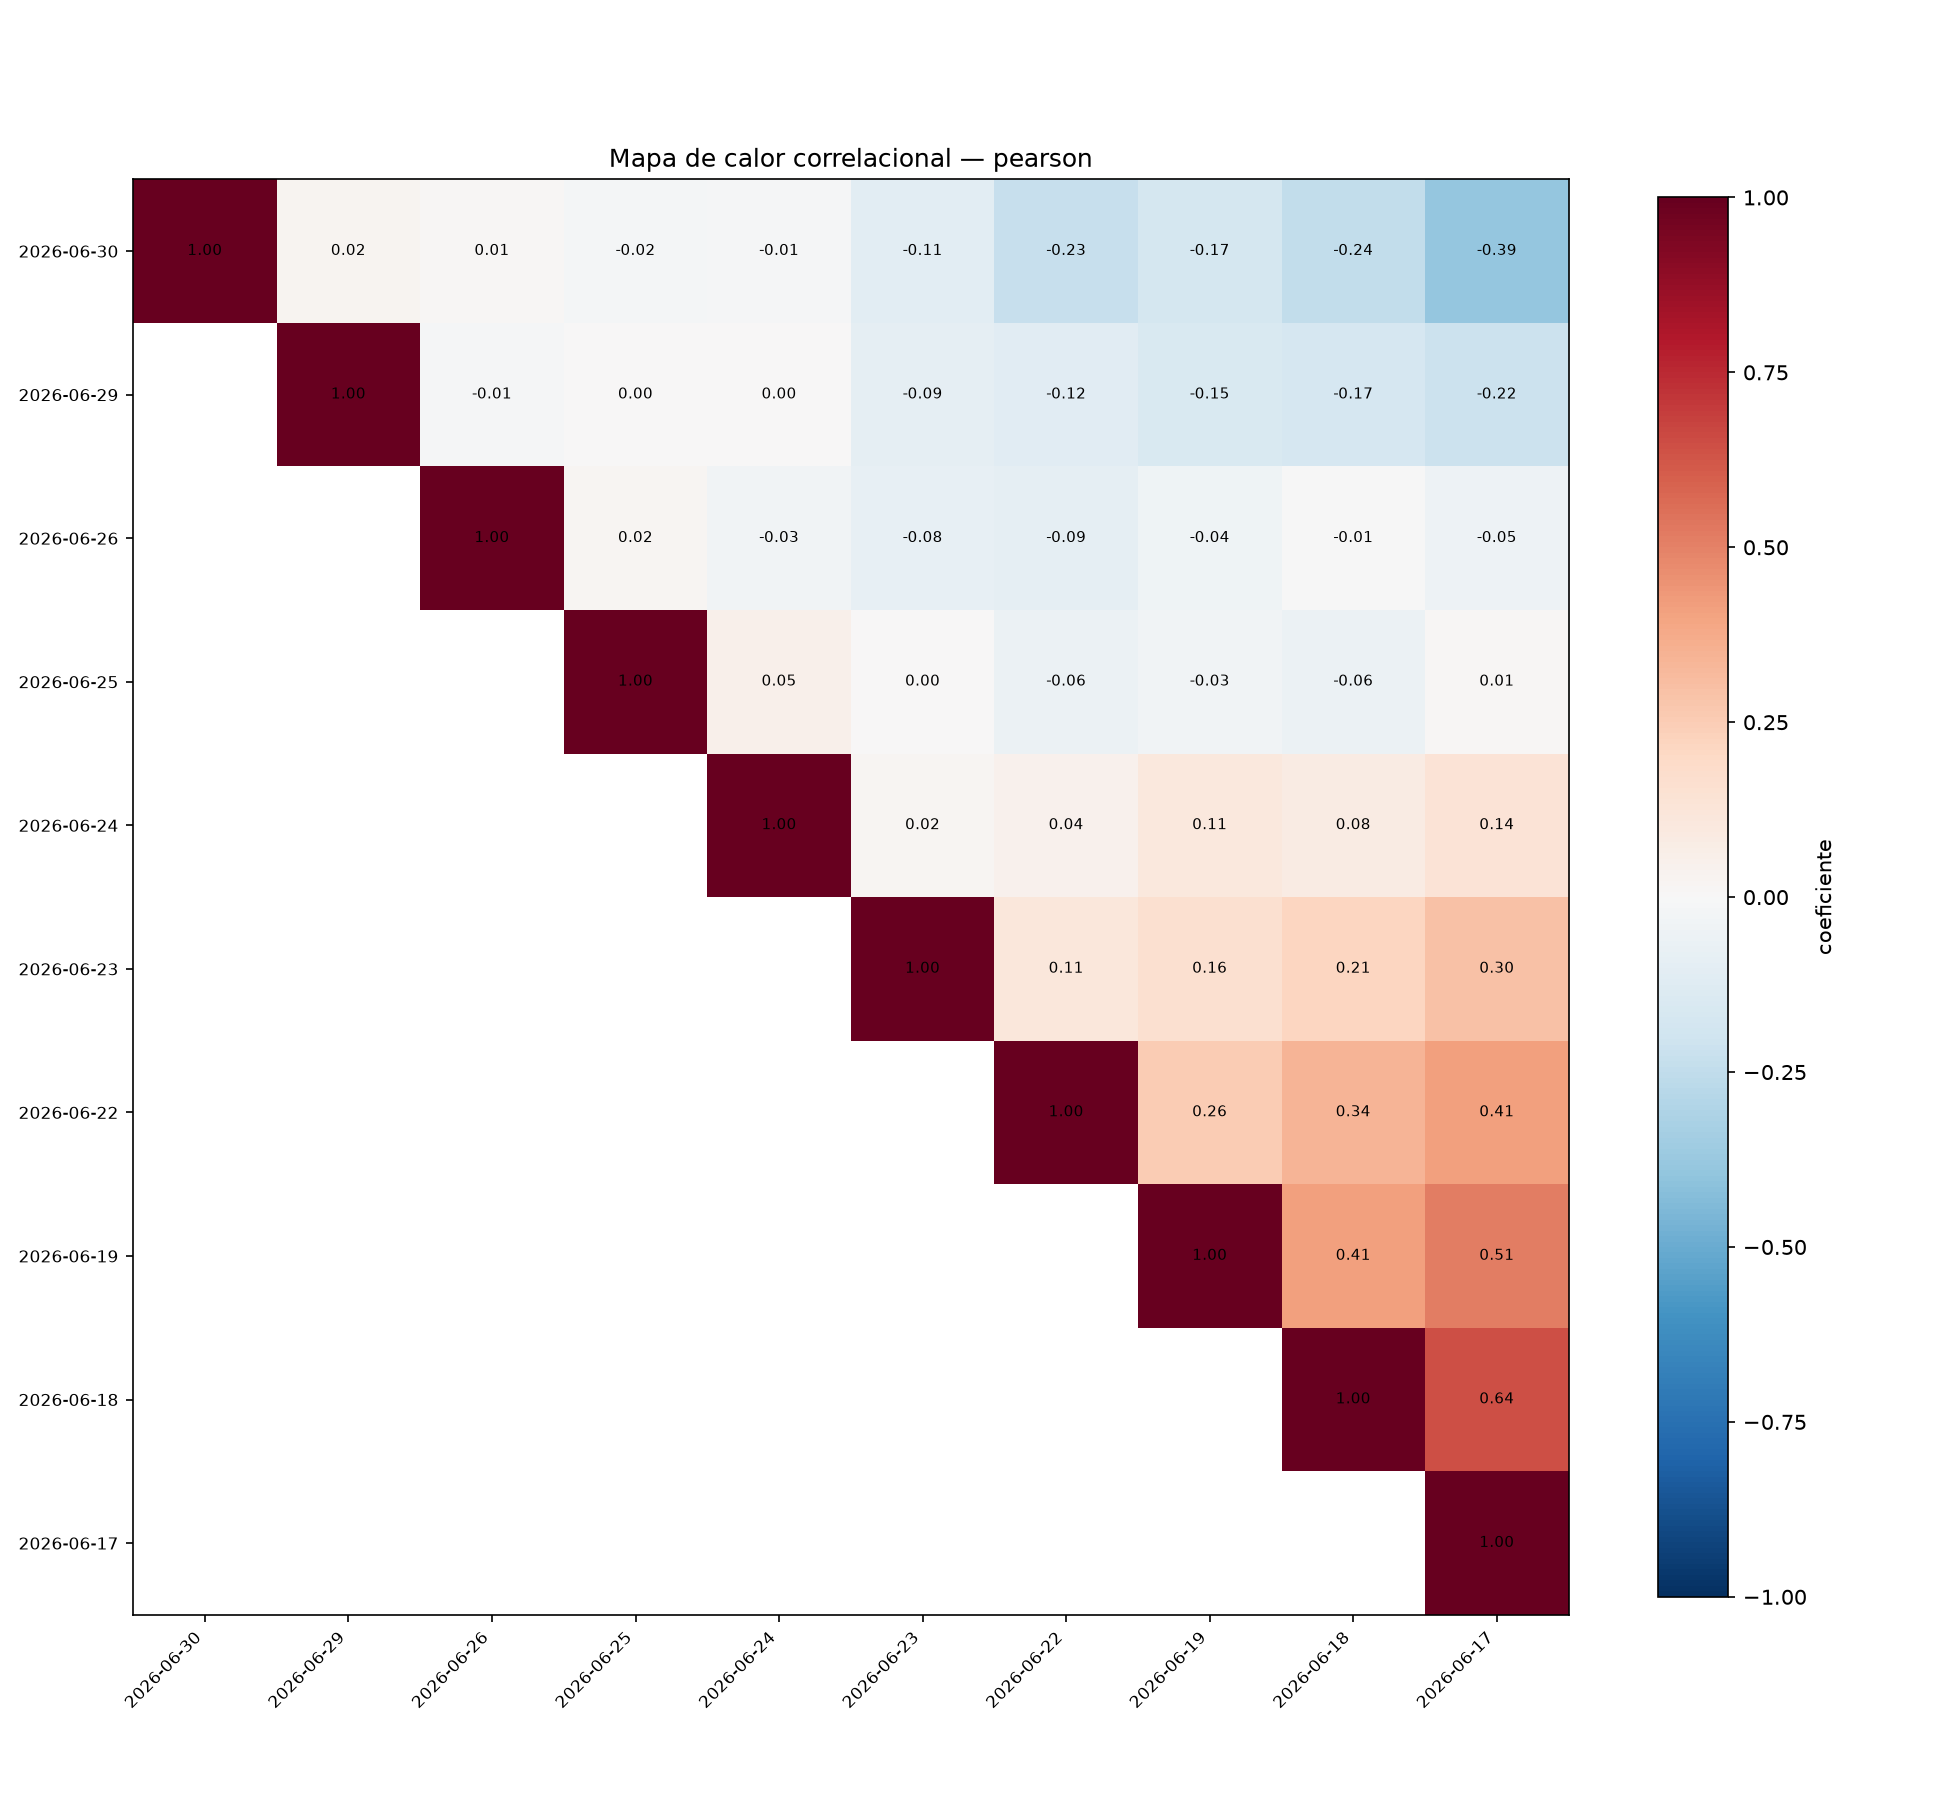
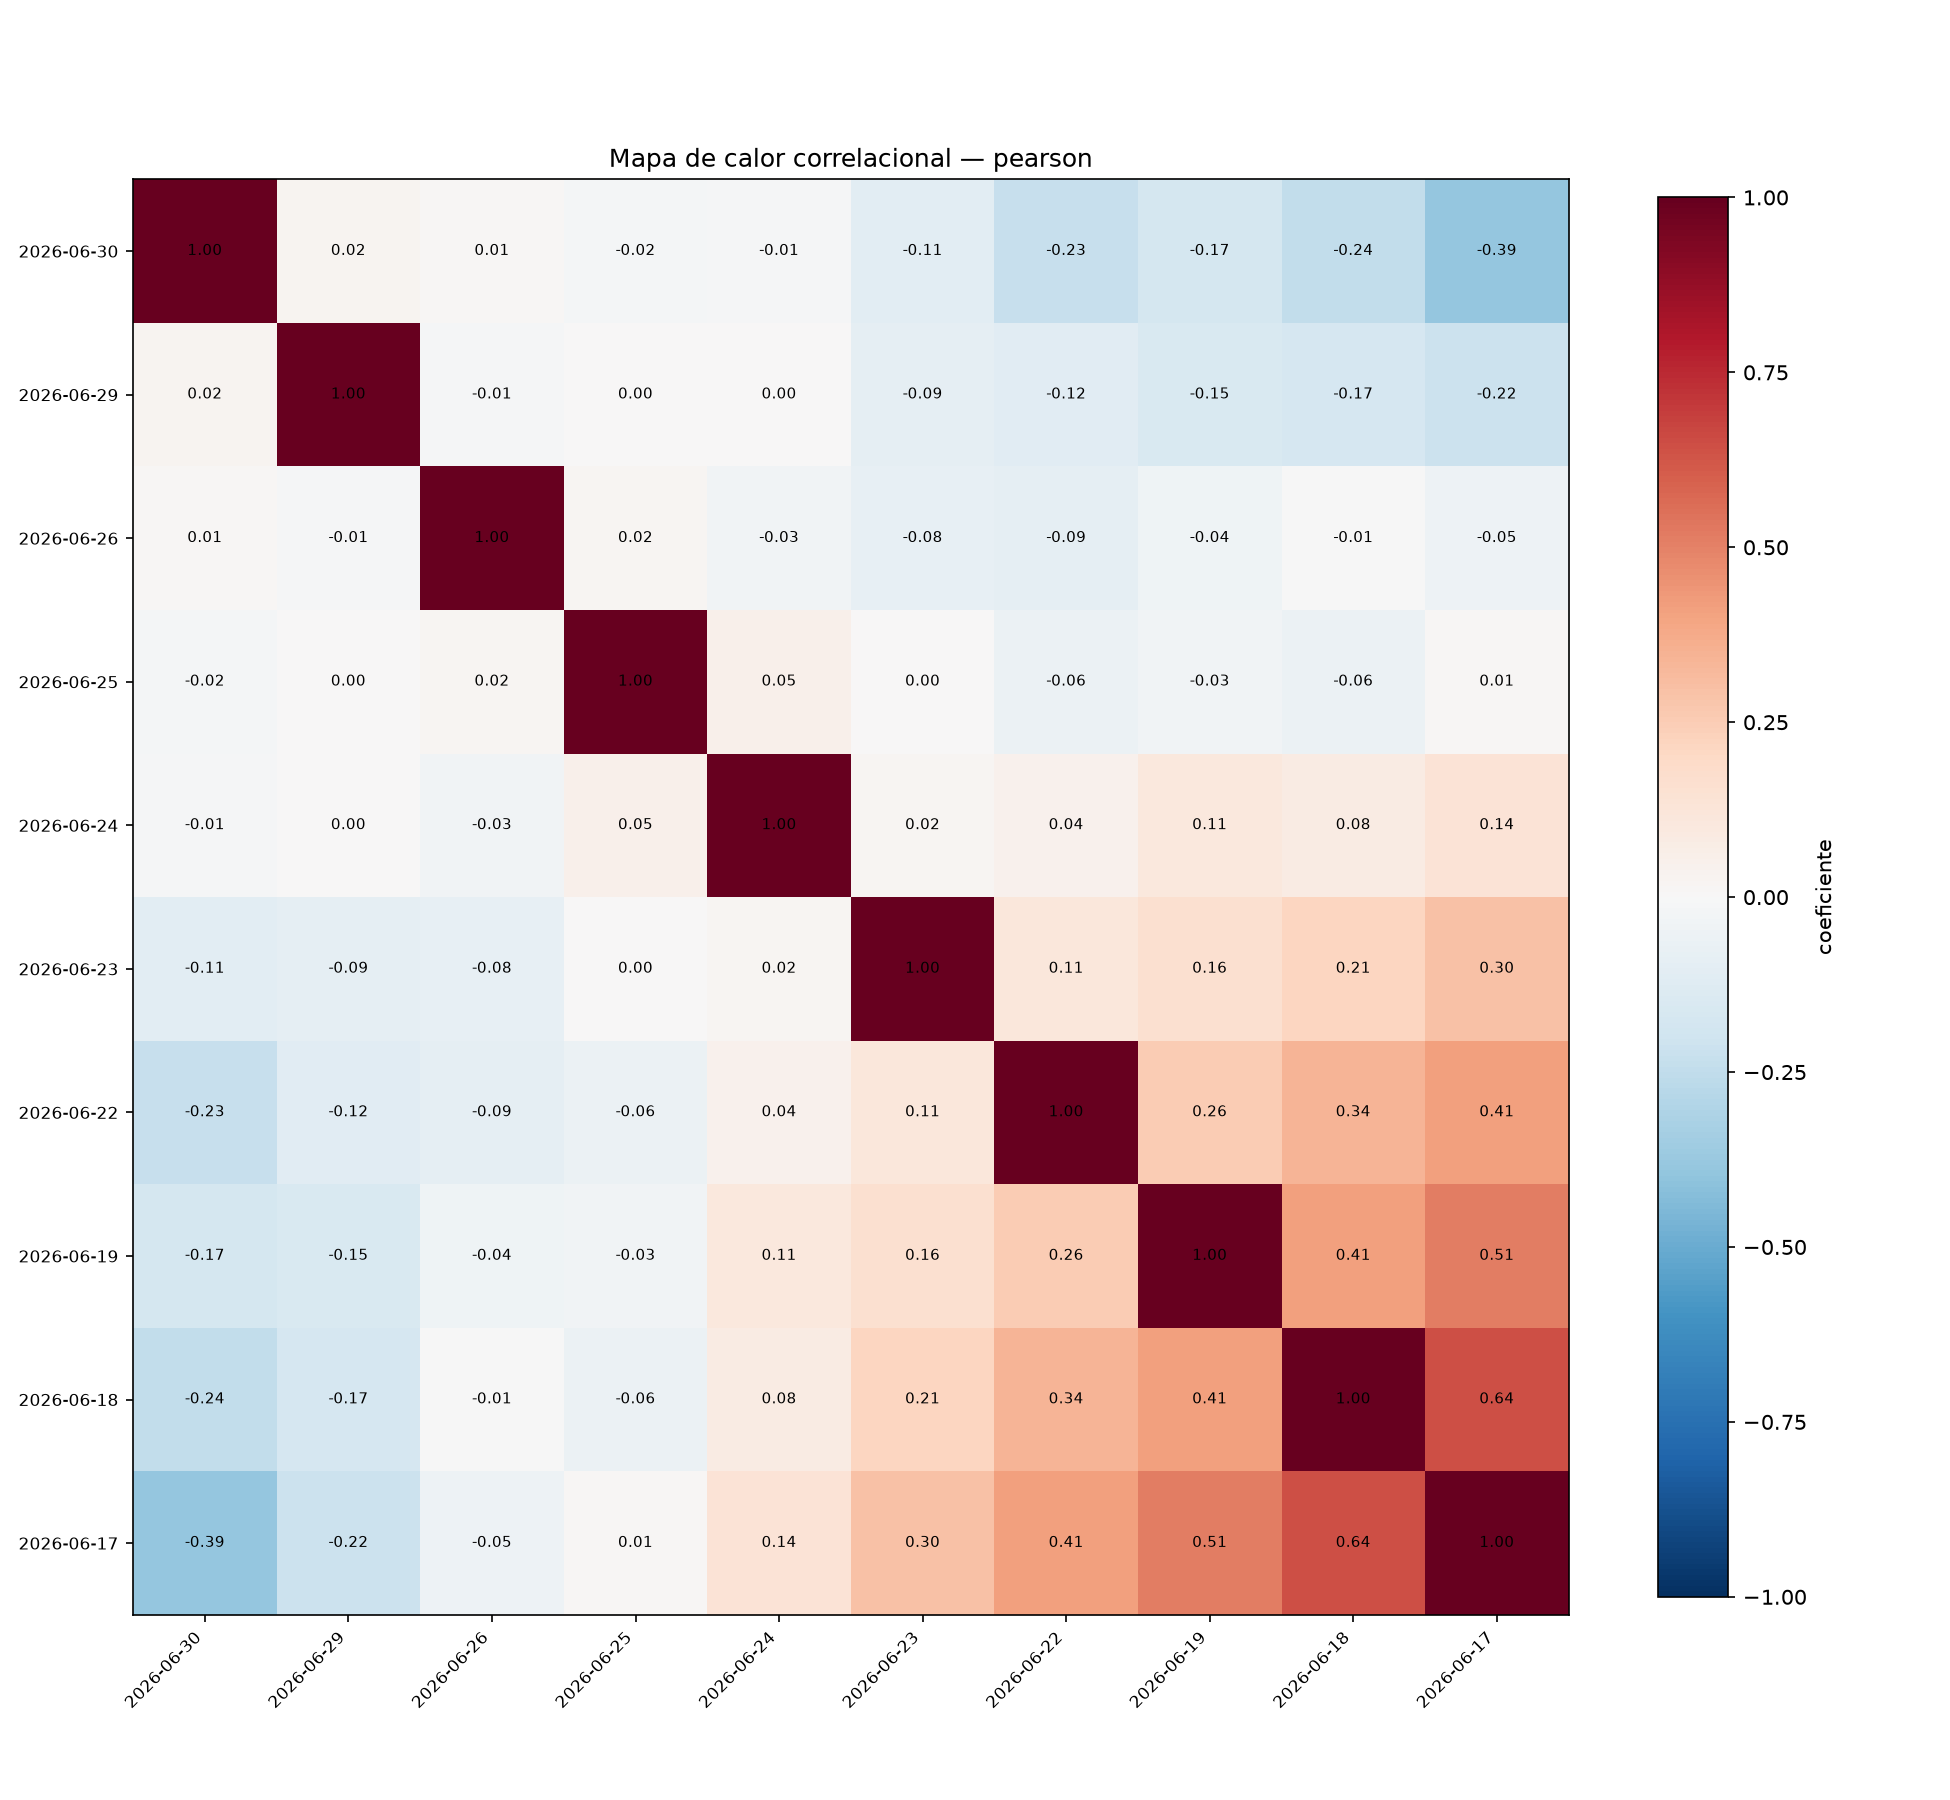
feat(viz): renderiza a matriz V completa e simétrica no heatmap
Remove a máscara do triângulo inferior — ambos os triângulos e a diagonal
são exibidos, mantendo a estrutura completa da matriz de correlação. Só o
triângulo superior é informativo (v_{i,j}=v_{j,i}), mas a simetria fica
visível. Docs e sample atualizados.

Claude-Session: https://claude.ai/code/session_01WybFwrnP7WDMffwengpz48

Changed region(s): [[0.3385, 0.56, 0.7385, 0.9022], [0.0615, 0.4978, 0.3077, 0.9022]]

diff --git a/src/visualization/heatmap.py b/src/visualization/heatmap.py
@@ -13,8 +13,6 @@ import pandas as pd
 def plot_heatmap(matrix: pd.DataFrame, method: str, path: str | Path) -> Path:
     labels = list(matrix.columns)
     data = matrix.to_numpy(dtype=float)
-    mask = np.tril(np.ones_like(data, dtype=bool), k=-1)
-    data = np.ma.masked_array(data, mask=mask)
 
     fig, ax = plt.subplots(figsize=(1.1 * len(labels) + 2, 1.1 * len(labels) + 1))
     image = ax.imshow(data, cmap="RdBu_r", vmin=-1.0, vmax=1.0)
@@ -25,10 +23,9 @@ def plot_heatmap(matrix: pd.DataFrame, method: str, path: str | Path) -> Path:
 
     for i in range(len(labels)):
         for j in range(len(labels)):
-            if not mask[i, j]:
-                ax.text(
-                    j, i, f"{data[i, j]:.2f}", ha="center", va="center", fontsize=7
-                )
+            value = data[i, j]
+            if not np.isnan(value):
+                ax.text(j, i, f"{value:.2f}", ha="center", va="center", fontsize=7)
 
     fig.colorbar(image, ax=ax, shrink=0.8, label="coeficiente")
     fig.tight_layout()

diff --git a/docs/ARCHITECTURE.pt-BR.md b/docs/ARCHITECTURE.pt-BR.md
@@ -117,4 +117,4 @@ A primeira release contempla as camadas de **Captura**, **Pré-processamento** e
 
 ## 5. Escopo da Release 2
 
-A segunda release implementa a **Camada de Análise**: dada a base de dias selados, calcula a matriz de correlação $\mathbf{V} = [v_{i,j}]$ entre as séries diárias, com $v_{i,j} = \mathrm{corr}(d_i, d_j)$ para $j < i$, e persiste os coeficientes, o p-valor par a par e uma medida de estabilidade entre sub-janelas. A série de cada dia é o **retorno log do close** numa **janela intradiária uniforme** parametrizada. Os métodos são plugáveis (`CorrelationMethod`); esta release entrega **Pearson** e **Spearman** — CCF com varredura de lags, ρDCCA e MF-DCCA entram depois pela mesma interface. A visualização gera o **mapa de calor** (triângulo superior de $\mathbf{V}$). A integração ao dashboard existente permanece fora de escopo. Ver `docs/adr/0004-camada-de-analise-correlacao-cruzada.md`.
+A segunda release implementa a **Camada de Análise**: dada a base de dias selados, calcula a matriz de correlação $\mathbf{V} = [v_{i,j}]$ entre as séries diárias, com $v_{i,j} = \mathrm{corr}(d_i, d_j)$ para $j < i$, e persiste os coeficientes, o p-valor par a par e uma medida de estabilidade entre sub-janelas. A série de cada dia é o **retorno log do close** numa **janela intradiária uniforme** parametrizada. Os métodos são plugáveis (`CorrelationMethod`); esta release entrega **Pearson** e **Spearman** — CCF com varredura de lags, ρDCCA e MF-DCCA entram depois pela mesma interface. A visualização gera o **mapa de calor** da matriz $\mathbf{V}$ completa e simétrica (embora, por $v_{i,j}=v_{j,i}$, apenas o triângulo superior seja informativo). A integração ao dashboard existente permanece fora de escopo. Ver `docs/adr/0004-camada-de-analise-correlacao-cruzada.md`.

diff --git a/docs/ARCHITECTURE.en-US.md b/docs/ARCHITECTURE.en-US.md
@@ -117,4 +117,4 @@ The first release covers the **Acquisition**, **Preprocessing**, and **Storage**
 
 ## 5. Release 2 Scope
 
-The second release implements the **Analysis** layer: given the sealed-day dataset, it computes the correlation matrix $\mathbf{V} = [v_{i,j}]$ between daily series, with $v_{i,j} = \mathrm{corr}(d_i, d_j)$ for $j < i$, and persists the coefficients, the pairwise p-value, and a stability measure across sub-windows. Each day's series is the **close log-return** over a parametrized **uniform intraday window**. Methods are pluggable (`CorrelationMethod`); this release ships **Pearson** and **Spearman** — CCF with lag sweep, ρDCCA, and MF-DCCA follow through the same interface. Visualization produces the **heatmap** (upper triangle of $\mathbf{V}$). Dashboard integration remains out of scope. See `docs/adr/0004-camada-de-analise-correlacao-cruzada.md`.
+The second release implements the **Analysis** layer: given the sealed-day dataset, it computes the correlation matrix $\mathbf{V} = [v_{i,j}]$ between daily series, with $v_{i,j} = \mathrm{corr}(d_i, d_j)$ for $j < i$, and persists the coefficients, the pairwise p-value, and a stability measure across sub-windows. Each day's series is the **close log-return** over a parametrized **uniform intraday window**. Methods are pluggable (`CorrelationMethod`); this release ships **Pearson** and **Spearman** — CCF with lag sweep, ρDCCA, and MF-DCCA follow through the same interface. Visualization produces the **heatmap** of the full, symmetric matrix $\mathbf{V}$ (only the upper triangle is informative, since $v_{i,j}=v_{j,i}$). Dashboard integration remains out of scope. See `docs/adr/0004-camada-de-analise-correlacao-cruzada.md`.

diff --git a/docs/adr/0004-camada-de-analise-correlacao-cruzada.md b/docs/adr/0004-camada-de-analise-correlacao-cruzada.md
@@ -11,7 +11,8 @@ intradiárias ($d_1$ o dia mais antigo, $d_n$ o mais recente). Para cada par $(d
 $j < i$ define-se $v_{i,j} = \mathrm{corr}(d_i, d_j)$; fixado $d_i$, o período
 $\mathscr{P}_i = (v_{i,j})_1^{\,j=i-1}$ reúne os coeficientes com todos os dias anteriores. A matriz
 $\mathbf{V} = [v_{i,j}]_n^{i,j=1}$ é simétrica, tem diagonal 1 e é exibida como mapa de calor
-(triângulo superior, rótulos $d_n \dots d_1$). A validação não é só visual: p-valor, comparação
+(matriz completa e simétrica, rótulos $d_n \dots d_1$; só o triângulo superior é informativo).
+A validação não é só visual: p-valor, comparação
 entre defasagens e estabilidade entre janelas.
 
 A Release 1 já entrega os candles M1 limpos e selados e a estrutura de pares. Falta calcular os

diff --git a/samples/README.md b/samples/README.md
@@ -9,7 +9,7 @@ do pipeline sobre um recorte de dados, versionada junto com os artefatos produzi
   - `pairs/d_i=.../` — estrutura de pares de defasagem $\mathcal{P}_i$
   - `correlations/method=<m>/` — coeficientes $v_{i,j}$, p-valor e estabilidade (`pairs.parquet`)
     e a matriz $\mathbf{V}$ (`matrix.parquet`), para Pearson e Spearman
-  - `correlations/heatmap_<m>.png` — mapa de calor (triângulo superior de $\mathbf{V}$)
+  - `correlations/heatmap_<m>.png` — mapa de calor da matriz $\mathbf{V}$ completa e simétrica
   - `REPORT.md` — parâmetros, cobertura por dia e os pares de maior associação
   - `manifest.yaml` — metadados da execução
 
